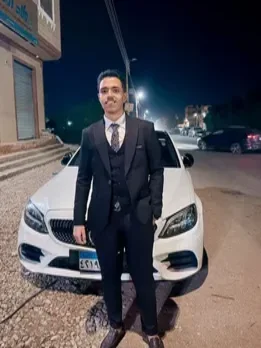
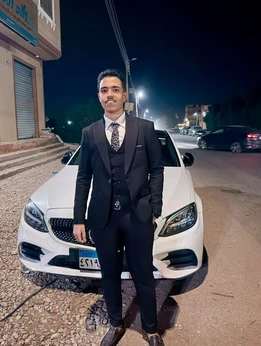
perf: optimize portfolio images

diff --git a/index.html b/index.html
@@ -13,8 +13,6 @@
 
     <meta name="theme-color" content="#2563eb" />
 
-  
-
     <!-- Google Fonts -->
     <link rel="preconnect" href="https://fonts.googleapis.com" />
     <link rel="preconnect" href="https://fonts.gstatic.com" crossorigin />
@@ -136,10 +134,11 @@
         <div class="hero-image">
           <picture>
             <source
-              media="(max-width: 768px)"
               srcset="images/profile-small.webp"
+              media="(max-width: 768px)"
+              width="261"
+              height="246"
             />
-
             <img
               src="images/profile.webp"
               alt="Mohamed Barakat"
